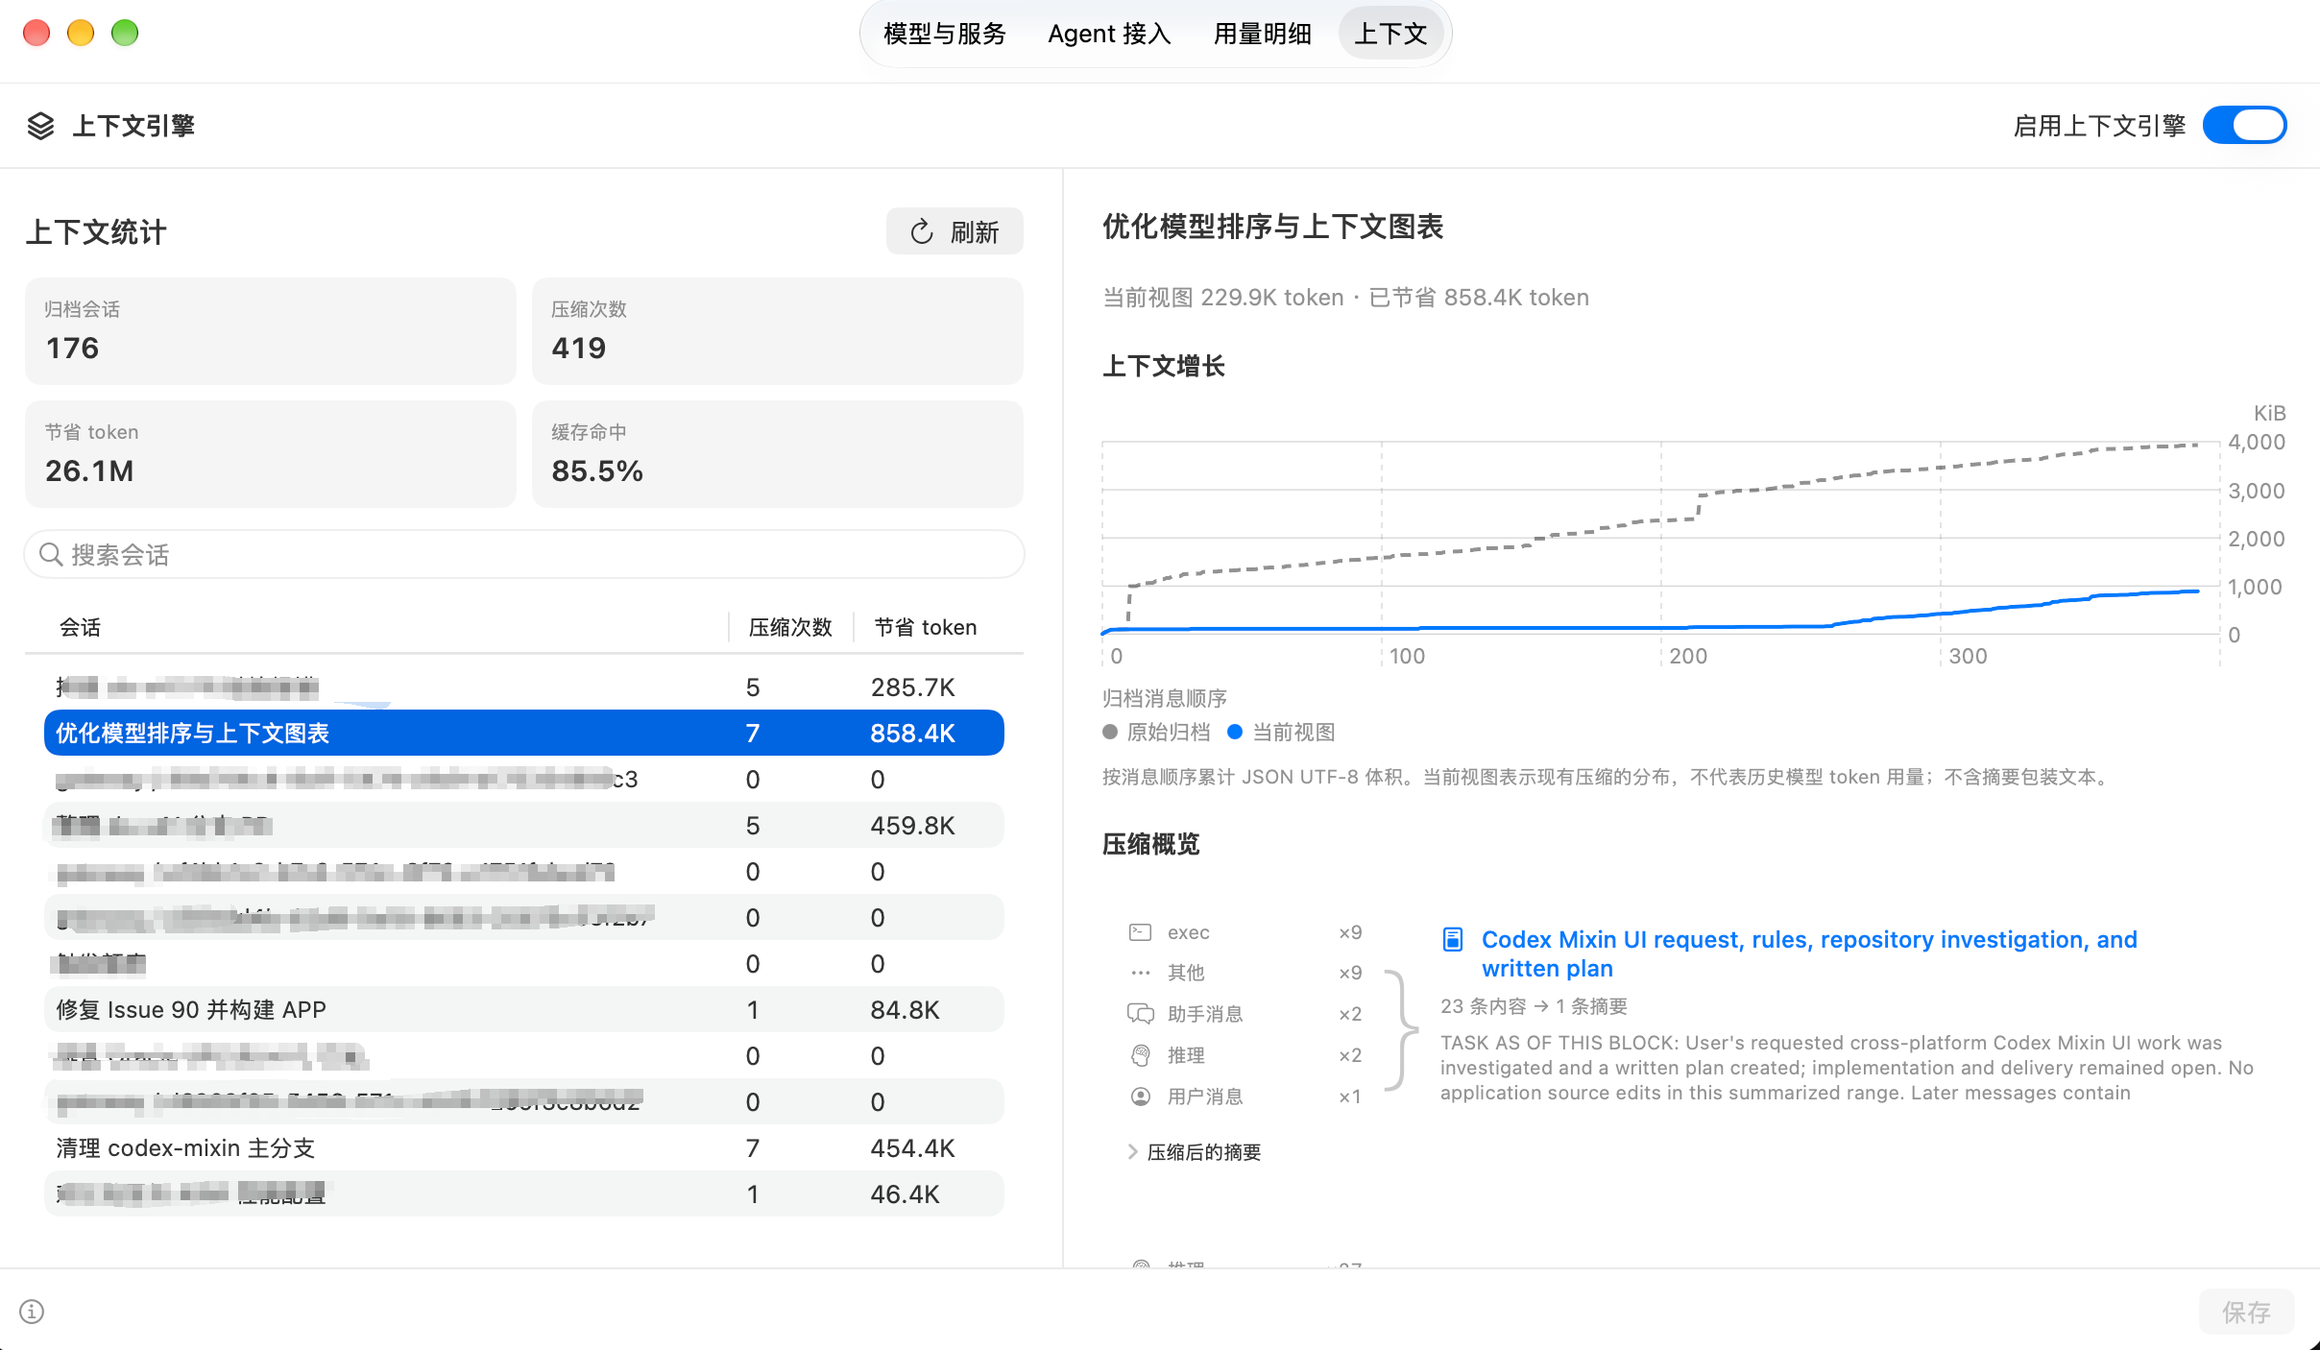
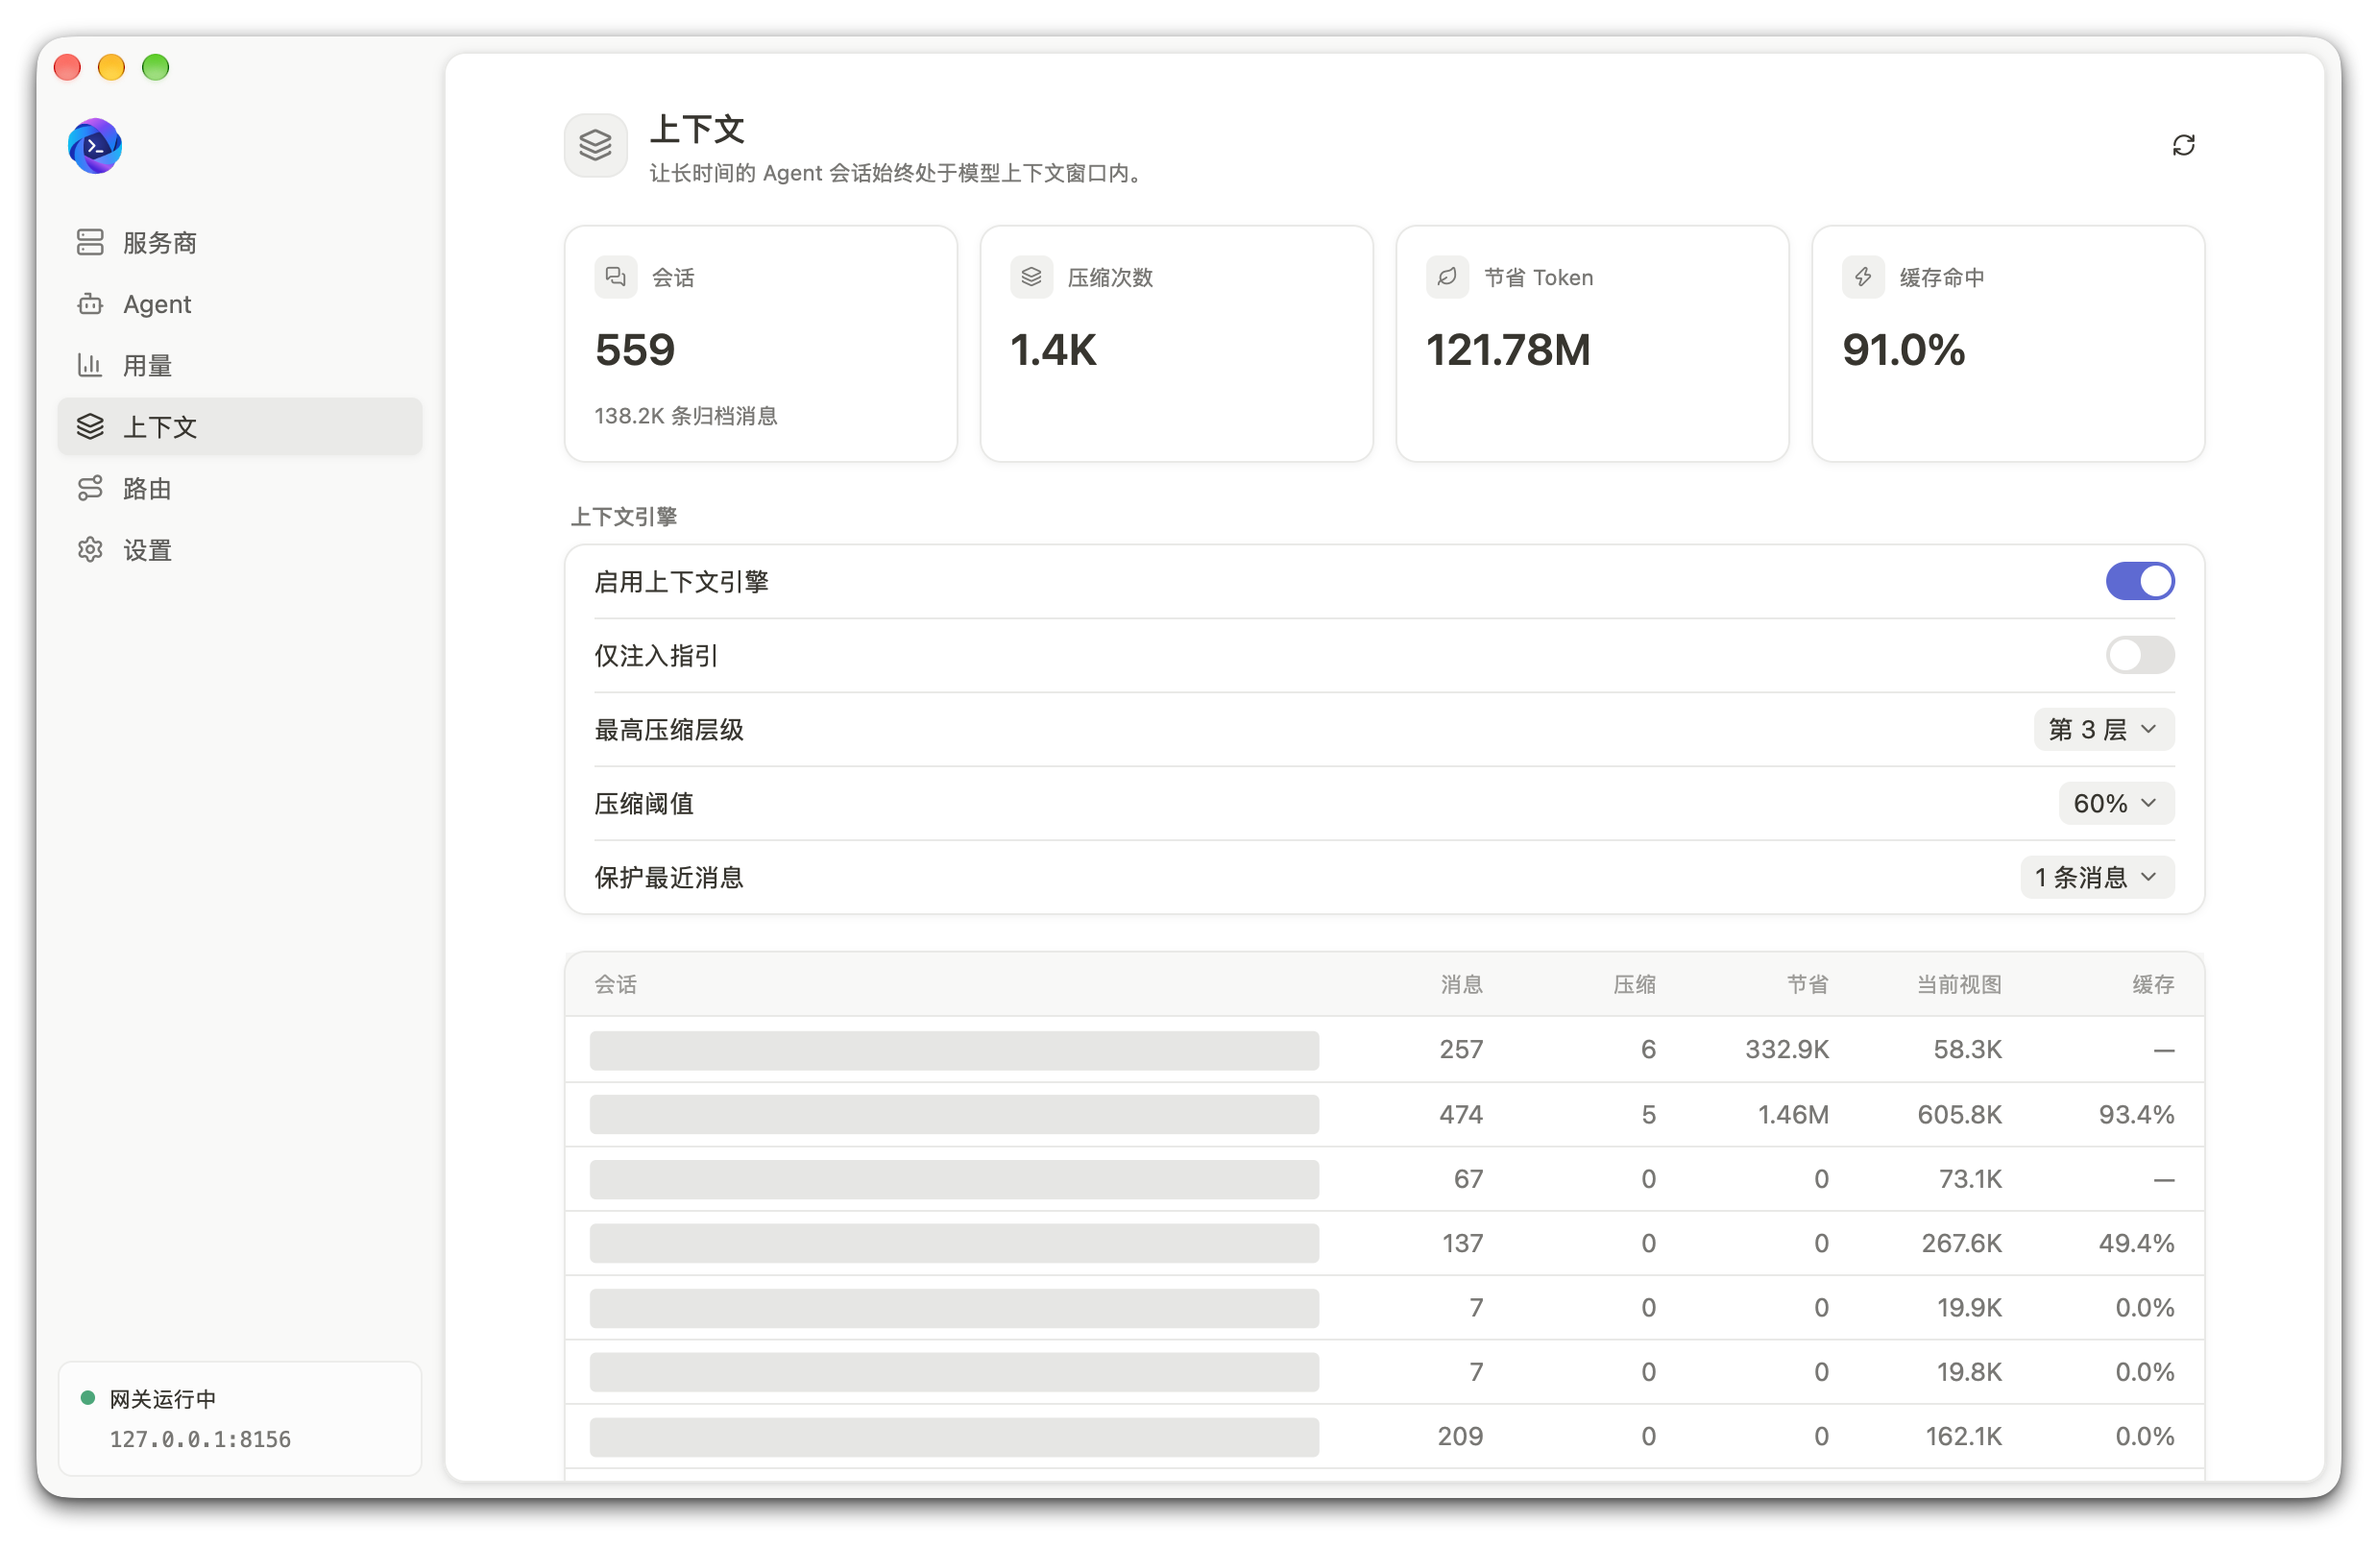
Refresh README for the GPUI desktop console

diff --git a/README_en.md b/README_en.md
@@ -20,7 +20,7 @@
 </p>
 
 <p align="center">
-  <a href="docs/assets/APP-Console-Routing.png"><img src="docs/assets/APP-Console-Routing.png" width="1000" alt="Codex Mixin model routing: several models answer in parallel, a judge model reviews, a final model replies"></a>
+  <a href="docs/assets/APP-Console-Routing.png"><img src="docs/assets/APP-Console-Routing.png" width="1000" alt="Codex Mixin failover routing with a primary model and ordered fallbacks"></a>
 </p>
 
 <p align="center">
@@ -38,7 +38,7 @@
 
 ## Core Capabilities
 
-Codex Mixin runs on your machine, between your agents and your model providers. It converts requests and streaming responses across four protocols: OpenAI Responses, Chat Completions, Anthropic Messages, and Gemini, including reasoning content and tool calls. The CLI, the native macOS and Windows apps, and the Web panel share one core.
+Codex Mixin runs on your machine, between your agents and your model providers. It converts requests and streaming responses across OpenAI Responses, Chat Completions, Anthropic Messages, and Gemini, including reasoning content and tool calls. The macOS, Windows, and Linux desktop apps share the gateway core with the CLI and web panel.
 
 ### Official Codex stays intact
 
@@ -65,7 +65,7 @@ The engine is off by default. Enable it with `codex-mixin context config set --e
 <table>
   <tr>
     <td width="50%" align="center">
-      <a href="docs/assets/APP-Console-Context.png"><img src="docs/assets/APP-Console-Context.png" alt="macOS context engine settings and session statistics"></a><br>
+      <a href="docs/assets/APP-Console-Context.png"><img src="docs/assets/APP-Console-Context.png" alt="Context engine settings and session statistics in the desktop console"></a><br>
       <sub><b>Console</b> · Sessions, compressions, tokens saved</sub>
     </td>
     <td width="50%" align="center">
@@ -129,8 +129,8 @@ See [Installation](https://github.com/Edward-lyz/codex-mixin/wiki/Installation) 
 
 ### Set up in the console
 
-1. In Models & Services, add a provider with an API key or OAuth sign-in.
-2. Refresh the model list, check the models you want, and save.
+1. On the Providers page, add a provider with an API key or OAuth sign-in.
+2. Select the models you want in the model list and save.
 3. On the Agents page, connect an installed client. For Codex, choose Official Account mode.
 4. Restart the client or open a new session, then pick a custom model in the model picker.
 
@@ -161,27 +161,27 @@ See [Data and Security](https://github.com/Edward-lyz/codex-mixin/wiki/Data-and-
 
 ## Interface
 
-The macOS, Windows, and Linux desktop apps share one GPUI interface. The CLI and web panel can also manage the gateway.
+The macOS, Windows, and Linux desktop apps share a GPUI interface, so the layout and workflows are consistent across all three platforms. Use the console to manage providers and models, connect agents, review usage, and configure the context engine and routing. The CLI and web panel can also manage the gateway.
 
 <table>
   <tr>
     <td width="50%" align="center">
-      <a href="docs/assets/APP-Console-Models.png"><img src="docs/assets/APP-Console-Models.png" alt="macOS Models and Services page: provider list and model selection"></a><br>
-      <sub><b>Models & Services</b> · Providers, models, and capabilities</sub>
+      <a href="docs/assets/APP-Console-Models.png"><img src="docs/assets/APP-Console-Models.png" alt="Providers page showing selected models and their context windows"></a><br>
+      <sub><b>Providers</b> · Model selection, context windows, and capabilities</sub>
     </td>
     <td width="50%" align="center">
-      <a href="docs/assets/APP-Console-Agents-v074.png"><img src="docs/assets/APP-Console-Agents-v074.png" alt="macOS Agents page: installed versions and connection actions"></a><br>
-      <sub><b>Agents</b> · Installed versions, connection state, and restore</sub>
+      <a href="docs/assets/APP-Console-Agents.png"><img src="docs/assets/APP-Console-Agents.png" alt="Agents page showing installed client versions and connection toggles"></a><br>
+      <sub><b>Agents</b> · Installed versions and connection status</sub>
     </td>
   </tr>
   <tr>
     <td width="50%" align="center">
-      <a href="docs/assets/APP-Console-Usage-v074.png"><img src="docs/assets/APP-Console-Usage-v074.png" alt="macOS Usage page: daily statistics and per-reply data"></a><br>
-      <sub><b>Usage</b> · Tokens, cache, and speed for every reply</sub>
+      <a href="docs/assets/APP-Console-Usage.png"><img src="docs/assets/APP-Console-Usage.png" alt="Usage page showing daily token trends and per-model statistics"></a><br>
+      <sub><b>Usage</b> · Request counts, token trends, and model statistics</sub>
     </td>
     <td width="50%" align="center">
-      <a href="docs/assets/Windows-Console-Models.png"><img src="docs/assets/Windows-Console-Models.png" alt="Native Windows Models and Services console"></a><br>
-      <sub><b>Windows console</b> · Models & Services</sub>
+      <a href="docs/assets/APP-Console-Settings.png"><img src="docs/assets/APP-Console-Settings.png" alt="Settings page showing app updates, gateway controls, configuration backups, and diagnostics"></a><br>
+      <sub><b>Settings</b> · Gateway, app updates, and configuration backups</sub>
     </td>
   </tr>
 </table>
